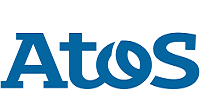
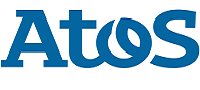
Resizing companies pictures

diff --git a/css/style.css b/css/style.css
@@ -1,10 +1,10 @@
 body {
     background-image: url("../resources/pictures/background.jpg");
+    max-width: 1200px;
 
 }
 
 .content {
-    max-width: 80%;
     margin: auto;
     background: white;
     padding: 10px;
@@ -45,7 +45,7 @@ footer{
 
 .flex-container > div{
     padding-left: 40px;
-    width: 30%;
+    width: 29%;
     color: white;
 }
 

diff --git a/index.html b/index.html
@@ -7,6 +7,5 @@
         <script src="js/main.js"></script>
     </head>
     <body onload="route('Home')">
-
     </body>
 </html>
